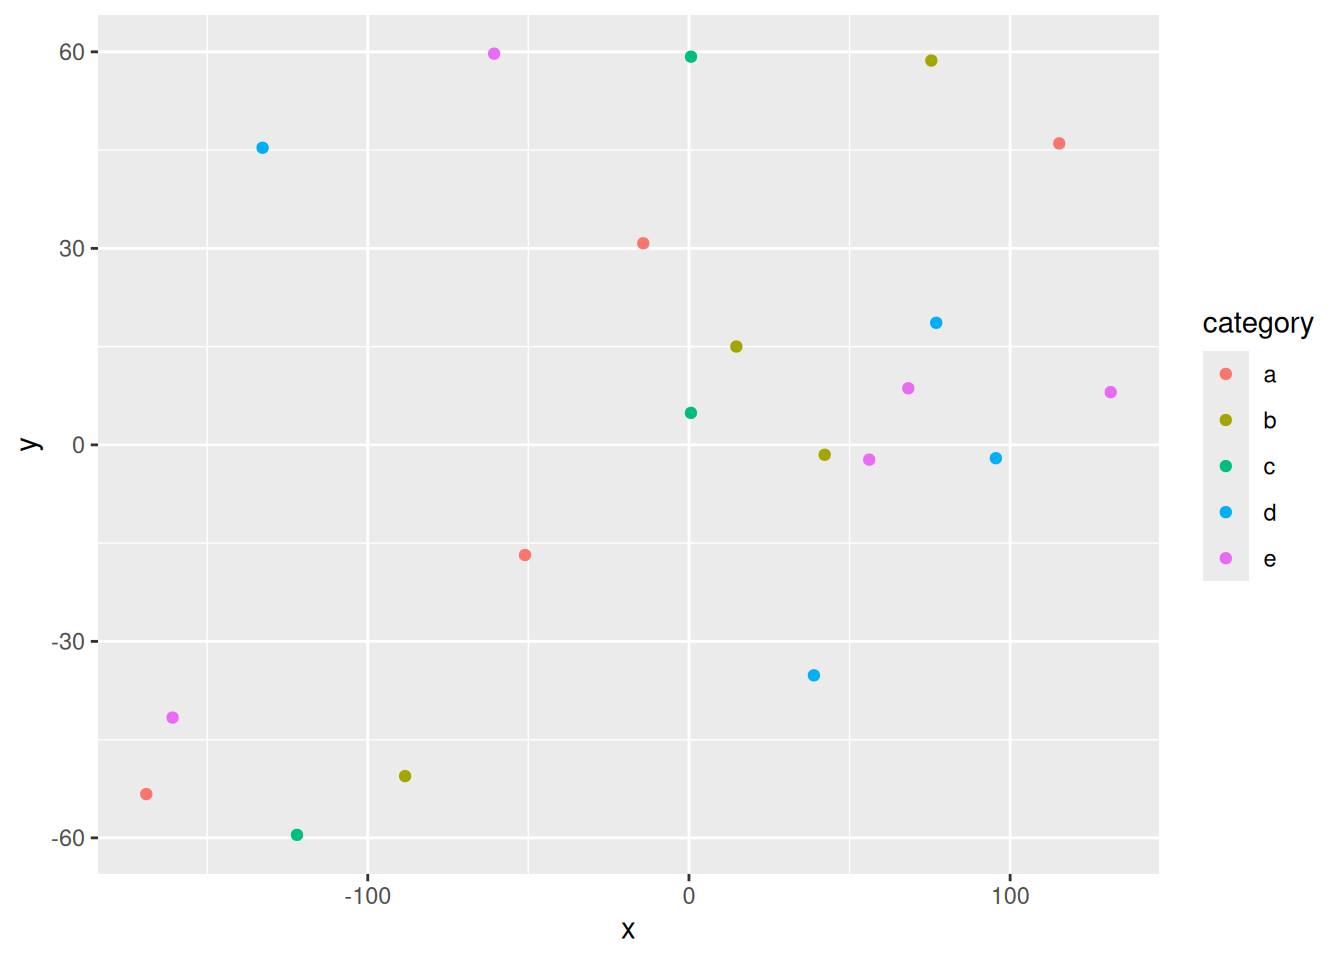
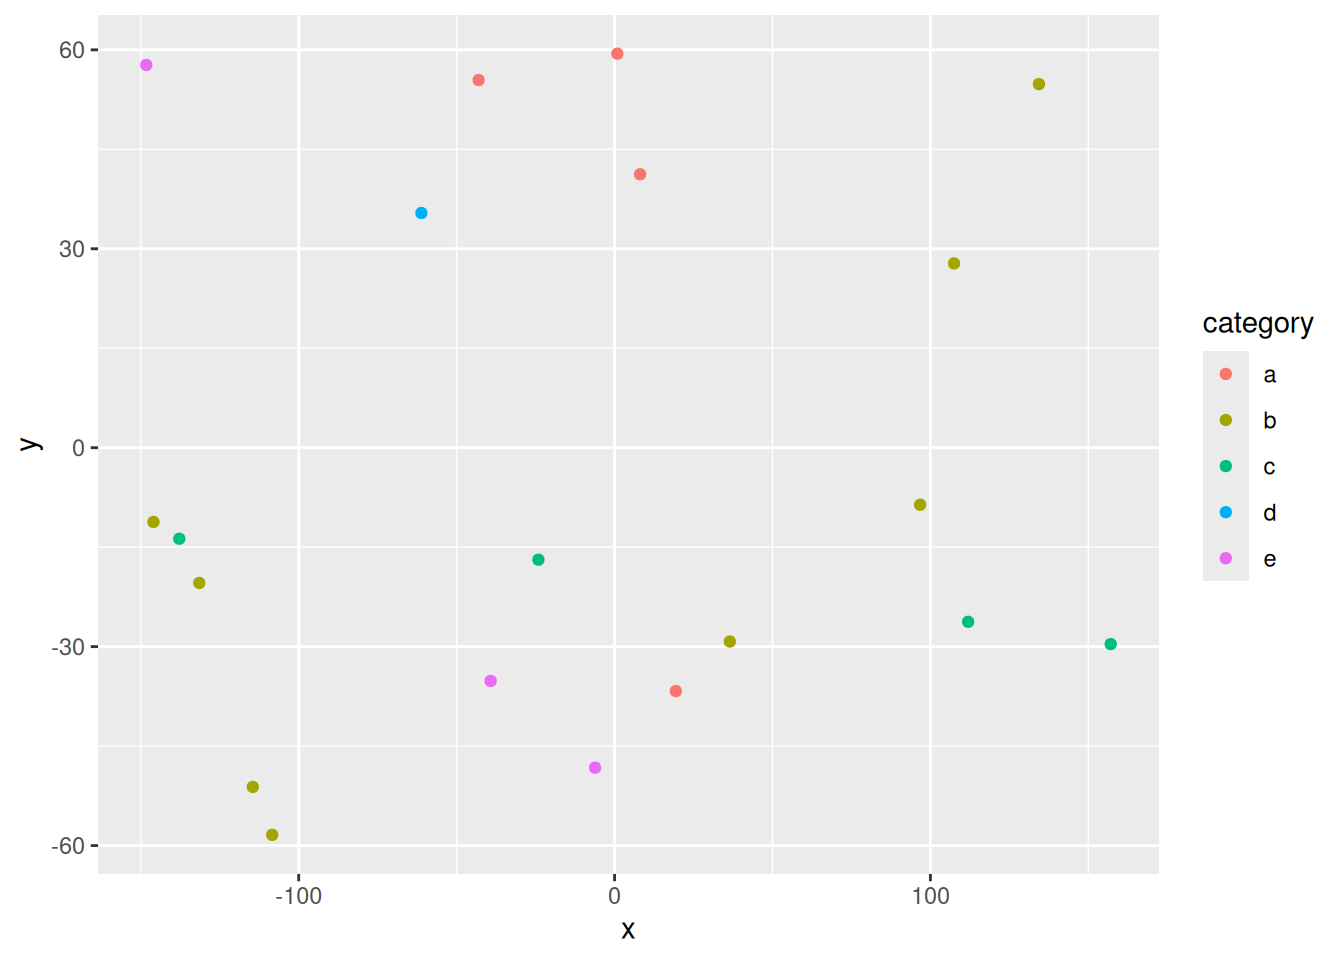
Built site for gh-pages

diff --git a/index.html b/index.html
@@ -272,74 +272,74 @@ pre > code.sourceCode > span > a:first-child::before { text-decoration: underlin
 </thead>
 <tbody>
 <tr class="odd">
-<td style="text-align: center;">75.47</td>
-<td style="text-align: center;">58.68</td>
-<td style="text-align: center;">17.13</td>
+<td style="text-align: center;">-145.99</td>
+<td style="text-align: center;">-11.20</td>
+<td style="text-align: center;">18.20</td>
 <td style="text-align: center;">b</td>
-<td style="text-align: center;">1.50</td>
+<td style="text-align: center;">-0.93</td>
 </tr>
 <tr class="even">
-<td style="text-align: center;">115.28</td>
-<td style="text-align: center;">46.02</td>
-<td style="text-align: center;">18.58</td>
-<td style="text-align: center;">a</td>
-<td style="text-align: center;">0.02</td>
-</tr>
-<tr class="odd">
-<td style="text-align: center;">56.12</td>
-<td style="text-align: center;">-2.25</td>
-<td style="text-align: center;">18.48</td>
-<td style="text-align: center;">e</td>
-<td style="text-align: center;">1.92</td>
-</tr>
-<tr class="even">
-<td style="text-align: center;">-60.66</td>
-<td style="text-align: center;">59.72</td>
-<td style="text-align: center;">13.79</td>
-<td style="text-align: center;">e</td>
-<td style="text-align: center;">-0.55</td>
-</tr>
-<tr class="odd">
-<td style="text-align: center;">-14.23</td>
-<td style="text-align: center;">30.78</td>
-<td style="text-align: center;">13.51</td>
-<td style="text-align: center;">a</td>
-<td style="text-align: center;">0.94</td>
-</tr>
-<tr class="even">
-<td style="text-align: center;">14.76</td>
-<td style="text-align: center;">15.01</td>
-<td style="text-align: center;">7.38</td>
-<td style="text-align: center;">b</td>
+<td style="text-align: center;">-24.11</td>
+<td style="text-align: center;">-16.88</td>
+<td style="text-align: center;">11.84</td>
+<td style="text-align: center;">c</td>
 <td style="text-align: center;">0.88</td>
 </tr>
 <tr class="odd">
-<td style="text-align: center;">0.62</td>
-<td style="text-align: center;">4.88</td>
-<td style="text-align: center;">15.07</td>
-<td style="text-align: center;">c</td>
-<td style="text-align: center;">-0.09</td>
+<td style="text-align: center;">19.40</td>
+<td style="text-align: center;">-36.70</td>
+<td style="text-align: center;">13.09</td>
+<td style="text-align: center;">a</td>
+<td style="text-align: center;">-0.37</td>
 </tr>
 <tr class="even">
-<td style="text-align: center;">68.30</td>
-<td style="text-align: center;">8.64</td>
-<td style="text-align: center;">13.27</td>
-<td style="text-align: center;">e</td>
-<td style="text-align: center;">-0.46</td>
+<td style="text-align: center;">107.50</td>
+<td style="text-align: center;">27.79</td>
+<td style="text-align: center;">19.75</td>
+<td style="text-align: center;">b</td>
+<td style="text-align: center;">-0.06</td>
 </tr>
 <tr class="odd">
-<td style="text-align: center;">-122.04</td>
-<td style="text-align: center;">-59.54</td>
-<td style="text-align: center;">12.78</td>
-<td style="text-align: center;">c</td>
-<td style="text-align: center;">0.59</td>
+<td style="text-align: center;">0.88</td>
+<td style="text-align: center;">59.42</td>
+<td style="text-align: center;">17.95</td>
+<td style="text-align: center;">a</td>
+<td style="text-align: center;">-1.62</td>
 </tr>
 <tr class="even">
-<td style="text-align: center;">-160.77</td>
-<td style="text-align: center;">-41.63</td>
-<td style="text-align: center;">18.02</td>
-<td style="text-align: center;">e</td>
-<td style="text-align: center;">-2.02</td>
+<td style="text-align: center;">8.08</td>
+<td style="text-align: center;">41.24</td>
+<td style="text-align: center;">10.09</td>
+<td style="text-align: center;">a</td>
+<td style="text-align: center;">-1.19</td>
+</tr>
+<tr class="odd">
+<td style="text-align: center;">96.75</td>
+<td style="text-align: center;">-8.60</td>
+<td style="text-align: center;">14.04</td>
+<td style="text-align: center;">b</td>
+<td style="text-align: center;">1.55</td>
+</tr>
+<tr class="even">
+<td style="text-align: center;">-114.55</td>
+<td style="text-align: center;">-51.15</td>
+<td style="text-align: center;">6.49</td>
+<td style="text-align: center;">b</td>
+<td style="text-align: center;">2.07</td>
+</tr>
+<tr class="odd">
+<td style="text-align: center;">-43.04</td>
+<td style="text-align: center;">55.44</td>
+<td style="text-align: center;">12.88</td>
+<td style="text-align: center;">a</td>
+<td style="text-align: center;">-0.96</td>
+</tr>
+<tr class="even">
+<td style="text-align: center;">134.36</td>
+<td style="text-align: center;">54.83</td>
+<td style="text-align: center;">17.73</td>
+<td style="text-align: center;">b</td>
+<td style="text-align: center;">-0.71</td>
 </tr>
 </tbody>
 </table>
@@ -359,8 +359,8 @@ pre > code.sourceCode > span > a:first-child::before { text-decoration: underlin
 <span id="cb5-4"><a href="#cb5-4" aria-hidden="true" tabindex="-1"></a>  <span class="fu">addPopups</span>(<span class="sc">~</span>x[<span class="dv">2</span>], <span class="sc">~</span>y[<span class="dv">2</span>], <span class="st">"Random popup"</span>)</span>
 <span id="cb5-5"><a href="#cb5-5" aria-hidden="true" tabindex="-1"></a>m  <span class="co"># a map with the default OSM tile layer</span></span></code></pre></div><button title="Copy to Clipboard" class="code-copy-button"><i class="bi"></i></button></div>
 <div class="cell-output-display">
-<div class="leaflet html-widget html-fill-item" id="htmlwidget-c5962337785e435e2c39" style="width:100%;height:325px;"></div>
-<script type="application/json" data-for="htmlwidget-c5962337785e435e2c39">{"x":{"options":{"crs":{"crsClass":"L.CRS.EPSG3857","code":null,"proj4def":null,"projectedBounds":null,"options":{}}},"calls":[{"method":"addTiles","args":["https://{s}.tile.openstreetmap.org/{z}/{x}/{y}.png",null,null,{"minZoom":0,"maxZoom":18,"tileSize":256,"subdomains":"abc","errorTileUrl":"","tms":false,"noWrap":false,"zoomOffset":0,"zoomReverse":false,"opacity":1,"zIndex":1,"detectRetina":false,"attribution":"&copy; <a href=\"https://openstreetmap.org/copyright/\">OpenStreetMap<\/a>,  <a href=\"https://opendatacommons.org/licenses/odbl/\">ODbL<\/a>"}]},{"method":"addCircleMarkers","args":[[58.67609744891524,46.02365772239864,-2.254709349945188,59.72192178480327,30.77626635320485,15.00891918316483,4.883463950827718,8.635286036878824,-59.54178317449987,-41.63273594342172,59.2658244073391,-50.57020808570087,-35.18666876479983,18.63369969651103,8.04350920021534,-2.038580048829317,-16.81722809560597,45.35915362648666,-1.510668005794287,-53.3153417520225],[75.47344674356282,115.279205488041,56.11983398906887,-60.66331123933196,-14.23393179662526,14.75615696981549,0.6180800311267376,68.29783765599132,-122.0383061561733,-160.770257441327,0.6407251674681902,-88.37957452051342,38.90068268403411,76.98957460932434,131.3169102743268,95.55468765087426,-51.04615417309105,-132.7520213462412,42.26153592579067,-168.9590821322054],[17.13233210146427,18.57729321927764,18.47900940454565,13.7927867192775,13.51191371912137,7.378726571332663,15.07136131403968,13.27226402587257,12.77929473668337,18.02323119947687,14.35575132956728,9.200030765496194,6.755474626552314,13.30281092552468,12.01047762529925,7.413175603142008,11.53331305016764,9.347617919556797,11.04119307128713,17.72196246893145],null,null,{"interactive":true,"className":"","stroke":true,"color":["b","a","e","e","a","b","c","e","c","e","c","b","d","d","e","d","a","d","b","a"],"weight":5,"opacity":0.5,"fill":true,"fillColor":["b","a","e","e","a","b","c","e","c","e","c","b","d","d","e","d","a","d","b","a"],"fillOpacity":0.2},null,null,null,null,null,{"interactive":false,"permanent":false,"direction":"auto","opacity":1,"offset":[0,0],"textsize":"10px","textOnly":false,"className":"","sticky":true},null]},{"method":"addPopups","args":[46.02365772239864,115.279205488041,"Random popup",null,null,{"maxWidth":300,"minWidth":50,"autoPan":true,"keepInView":false,"closeButton":true,"className":""}]}],"limits":{"lat":[-59.54178317449987,59.72192178480327],"lng":[-168.9590821322054,131.3169102743268]}},"evals":[],"jsHooks":[]}</script>
+<div class="leaflet html-widget html-fill-item" id="htmlwidget-f0572025e2be1bbcc16f" style="width:100%;height:325px;"></div>
+<script type="application/json" data-for="htmlwidget-f0572025e2be1bbcc16f">{"x":{"options":{"crs":{"crsClass":"L.CRS.EPSG3857","code":null,"proj4def":null,"projectedBounds":null,"options":{}}},"calls":[{"method":"addTiles","args":["https://{s}.tile.openstreetmap.org/{z}/{x}/{y}.png",null,null,{"minZoom":0,"maxZoom":18,"tileSize":256,"subdomains":"abc","errorTileUrl":"","tms":false,"noWrap":false,"zoomOffset":0,"zoomReverse":false,"opacity":1,"zIndex":1,"detectRetina":false,"attribution":"&copy; <a href=\"https://openstreetmap.org/copyright/\">OpenStreetMap<\/a>,  <a href=\"https://opendatacommons.org/licenses/odbl/\">ODbL<\/a>"}]},{"method":"addCircleMarkers","args":[[-11.20142251253128,-16.88284227624536,-36.69786815531552,27.79119241051376,59.42066405899823,41.23552244156599,-8.600220484659076,-51.14788415841758,55.4413393791765,54.83023778535426,-29.6132336743176,-58.38362652808428,-20.39592870511115,-13.72376552782953,57.71761410869658,-29.23161716200411,-48.24943643063307,-35.16539479605854,35.39722345769405,-26.25650502741337],[-145.9870400000364,-24.11343731917441,19.39680679701269,107.4959047324955,0.87990403175354,8.081937739625573,96.75164924003184,-114.5457830931991,-43.04386085830629,134.3603831715882,157.0932268258184,-108.3884512726218,-131.4973628427833,-137.8169284947217,-148.2659985870123,36.49727722629905,-6.160589782521129,-39.23968523740768,-61.16199248470366,111.9513282459229],[18.19712560623884,11.8403976445552,13.09367247042246,19.74707846064121,17.95265928376466,10.09393014828674,14.04328002827242,6.488029428292066,12.88397513097152,17.72590368869714,15.41519231861457,6.774524048669264,6.279570815386251,12.96787790837698,6.255998916458338,7.778533891541883,11.52607667725533,8.940281481482089,10.779648355674,16.6475179779809],null,null,{"interactive":true,"className":"","stroke":true,"color":["b","c","a","b","a","a","b","b","a","b","c","b","b","c","e","b","e","e","d","c"],"weight":5,"opacity":0.5,"fill":true,"fillColor":["b","c","a","b","a","a","b","b","a","b","c","b","b","c","e","b","e","e","d","c"],"fillOpacity":0.2},null,null,null,null,null,{"interactive":false,"permanent":false,"direction":"auto","opacity":1,"offset":[0,0],"textsize":"10px","textOnly":false,"className":"","sticky":true},null]},{"method":"addPopups","args":[-16.88284227624536,-24.11343731917441,"Random popup",null,null,{"maxWidth":300,"minWidth":50,"autoPan":true,"keepInView":false,"closeButton":true,"className":""}]}],"limits":{"lat":[-58.38362652808428,59.42066405899823],"lng":[-148.2659985870123,157.0932268258184]}},"evals":[],"jsHooks":[]}</script>
 <p>Map of completely random data</p>
 </div>
 </div>
@@ -383,8 +383,8 @@ pre > code.sourceCode > span > a:first-child::before { text-decoration: underlin
 <span id="cb7-2"><a href="#cb7-2" aria-hidden="true" tabindex="-1"></a><span class="fu">dygraph</span>(nhtemp, <span class="at">main =</span> <span class="st">"New Haven Temperatures"</span>) <span class="sc">|&gt;</span> </span>
 <span id="cb7-3"><a href="#cb7-3" aria-hidden="true" tabindex="-1"></a>  <span class="fu">dyRangeSelector</span>(<span class="at">dateWindow =</span> <span class="fu">c</span>(<span class="st">"1920-01-01"</span>, <span class="st">"1960-01-01"</span>)) </span></code></pre></div><button title="Copy to Clipboard" class="code-copy-button"><i class="bi"></i></button></div>
 <div class="cell-output-display">
-<div class="dygraphs html-widget html-fill-item" id="htmlwidget-ad92a39bfccd5dab0821" style="width:100%;height:464px;"></div>
-<script type="application/json" data-for="htmlwidget-ad92a39bfccd5dab0821">{"x":{"attrs":{"title":"New Haven Temperatures","labels":["year","V1"],"legend":"auto","retainDateWindow":false,"axes":{"x":{"pixelsPerLabel":60}},"showRangeSelector":true,"dateWindow":["1920-01-01T00:00:00.000Z","1960-01-01T00:00:00.000Z"],"rangeSelectorHeight":40,"rangeSelectorPlotFillColor":" #A7B1C4","rangeSelectorPlotStrokeColor":"#808FAB","interactionModel":"Dygraph.Interaction.defaultModel"},"scale":"yearly","annotations":[],"shadings":[],"events":[],"format":"date","data":[["1912-01-01T00:00:00.000Z","1913-01-01T00:00:00.000Z","1914-01-01T00:00:00.000Z","1915-01-01T00:00:00.000Z","1916-01-01T00:00:00.000Z","1917-01-01T00:00:00.000Z","1918-01-01T00:00:00.000Z","1919-01-01T00:00:00.000Z","1920-01-01T00:00:00.000Z","1921-01-01T00:00:00.000Z","1922-01-01T00:00:00.000Z","1923-01-01T00:00:00.000Z","1924-01-01T00:00:00.000Z","1925-01-01T00:00:00.000Z","1926-01-01T00:00:00.000Z","1927-01-01T00:00:00.000Z","1928-01-01T00:00:00.000Z","1929-01-01T00:00:00.000Z","1930-01-01T00:00:00.000Z","1931-01-01T00:00:00.000Z","1932-01-01T00:00:00.000Z","1933-01-01T00:00:00.000Z","1934-01-01T00:00:00.000Z","1935-01-01T00:00:00.000Z","1936-01-01T00:00:00.000Z","1937-01-01T00:00:00.000Z","1938-01-01T00:00:00.000Z","1939-01-01T00:00:00.000Z","1940-01-01T00:00:00.000Z","1941-01-01T00:00:00.000Z","1942-01-01T00:00:00.000Z","1943-01-01T00:00:00.000Z","1944-01-01T00:00:00.000Z","1945-01-01T00:00:00.000Z","1946-01-01T00:00:00.000Z","1947-01-01T00:00:00.000Z","1948-01-01T00:00:00.000Z","1949-01-01T00:00:00.000Z","1950-01-01T00:00:00.000Z","1951-01-01T00:00:00.000Z","1952-01-01T00:00:00.000Z","1953-01-01T00:00:00.000Z","1954-01-01T00:00:00.000Z","1955-01-01T00:00:00.000Z","1956-01-01T00:00:00.000Z","1957-01-01T00:00:00.000Z","1958-01-01T00:00:00.000Z","1959-01-01T00:00:00.000Z","1960-01-01T00:00:00.000Z","1961-01-01T00:00:00.000Z","1962-01-01T00:00:00.000Z","1963-01-01T00:00:00.000Z","1964-01-01T00:00:00.000Z","1965-01-01T00:00:00.000Z","1966-01-01T00:00:00.000Z","1967-01-01T00:00:00.000Z","1968-01-01T00:00:00.000Z","1969-01-01T00:00:00.000Z","1970-01-01T00:00:00.000Z","1971-01-01T00:00:00.000Z"],[49.9,52.3,49.4,51.1,49.4,47.9,49.8,50.9,49.3,51.9,50.8,49.6,49.3,50.6,48.4,50.7,50.9,50.6,51.5,52.8,51.8,51.1,49.8,50.2,50.4,51.6,51.8,50.9,48.8,51.7,51,50.6,51.7,51.5,52.1,51.3,51,54,51.4,52.7,53.1,54.6,52,52,50.9,52.6,50.2,52.6,51.6,51.9,50.5,50.9,51.7,51.4,51.7,50.8,51.9,51.8,51.9,53]]},"evals":["attrs.interactionModel"],"jsHooks":[]}</script>
+<div class="dygraphs html-widget html-fill-item" id="htmlwidget-7b1b98e490418644bbaa" style="width:100%;height:464px;"></div>
+<script type="application/json" data-for="htmlwidget-7b1b98e490418644bbaa">{"x":{"attrs":{"title":"New Haven Temperatures","labels":["year","V1"],"legend":"auto","retainDateWindow":false,"axes":{"x":{"pixelsPerLabel":60}},"showRangeSelector":true,"dateWindow":["1920-01-01T00:00:00.000Z","1960-01-01T00:00:00.000Z"],"rangeSelectorHeight":40,"rangeSelectorPlotFillColor":" #A7B1C4","rangeSelectorPlotStrokeColor":"#808FAB","interactionModel":"Dygraph.Interaction.defaultModel"},"scale":"yearly","annotations":[],"shadings":[],"events":[],"format":"date","data":[["1912-01-01T00:00:00.000Z","1913-01-01T00:00:00.000Z","1914-01-01T00:00:00.000Z","1915-01-01T00:00:00.000Z","1916-01-01T00:00:00.000Z","1917-01-01T00:00:00.000Z","1918-01-01T00:00:00.000Z","1919-01-01T00:00:00.000Z","1920-01-01T00:00:00.000Z","1921-01-01T00:00:00.000Z","1922-01-01T00:00:00.000Z","1923-01-01T00:00:00.000Z","1924-01-01T00:00:00.000Z","1925-01-01T00:00:00.000Z","1926-01-01T00:00:00.000Z","1927-01-01T00:00:00.000Z","1928-01-01T00:00:00.000Z","1929-01-01T00:00:00.000Z","1930-01-01T00:00:00.000Z","1931-01-01T00:00:00.000Z","1932-01-01T00:00:00.000Z","1933-01-01T00:00:00.000Z","1934-01-01T00:00:00.000Z","1935-01-01T00:00:00.000Z","1936-01-01T00:00:00.000Z","1937-01-01T00:00:00.000Z","1938-01-01T00:00:00.000Z","1939-01-01T00:00:00.000Z","1940-01-01T00:00:00.000Z","1941-01-01T00:00:00.000Z","1942-01-01T00:00:00.000Z","1943-01-01T00:00:00.000Z","1944-01-01T00:00:00.000Z","1945-01-01T00:00:00.000Z","1946-01-01T00:00:00.000Z","1947-01-01T00:00:00.000Z","1948-01-01T00:00:00.000Z","1949-01-01T00:00:00.000Z","1950-01-01T00:00:00.000Z","1951-01-01T00:00:00.000Z","1952-01-01T00:00:00.000Z","1953-01-01T00:00:00.000Z","1954-01-01T00:00:00.000Z","1955-01-01T00:00:00.000Z","1956-01-01T00:00:00.000Z","1957-01-01T00:00:00.000Z","1958-01-01T00:00:00.000Z","1959-01-01T00:00:00.000Z","1960-01-01T00:00:00.000Z","1961-01-01T00:00:00.000Z","1962-01-01T00:00:00.000Z","1963-01-01T00:00:00.000Z","1964-01-01T00:00:00.000Z","1965-01-01T00:00:00.000Z","1966-01-01T00:00:00.000Z","1967-01-01T00:00:00.000Z","1968-01-01T00:00:00.000Z","1969-01-01T00:00:00.000Z","1970-01-01T00:00:00.000Z","1971-01-01T00:00:00.000Z"],[49.9,52.3,49.4,51.1,49.4,47.9,49.8,50.9,49.3,51.9,50.8,49.6,49.3,50.6,48.4,50.7,50.9,50.6,51.5,52.8,51.8,51.1,49.8,50.2,50.4,51.6,51.8,50.9,48.8,51.7,51,50.6,51.7,51.5,52.1,51.3,51,54,51.4,52.7,53.1,54.6,52,52,50.9,52.6,50.2,52.6,51.6,51.9,50.5,50.9,51.7,51.4,51.7,50.8,51.9,51.8,51.9,53]]},"evals":["attrs.interactionModel"],"jsHooks":[]}</script>
 </div>
 </div>
 </section>
